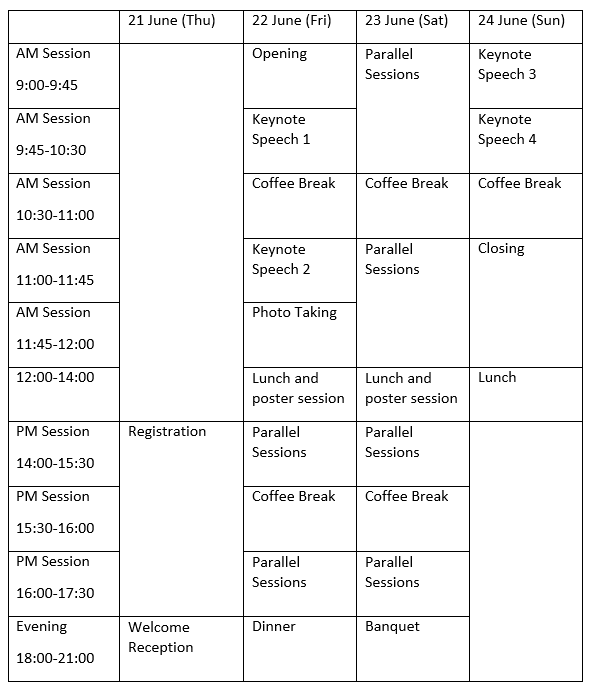
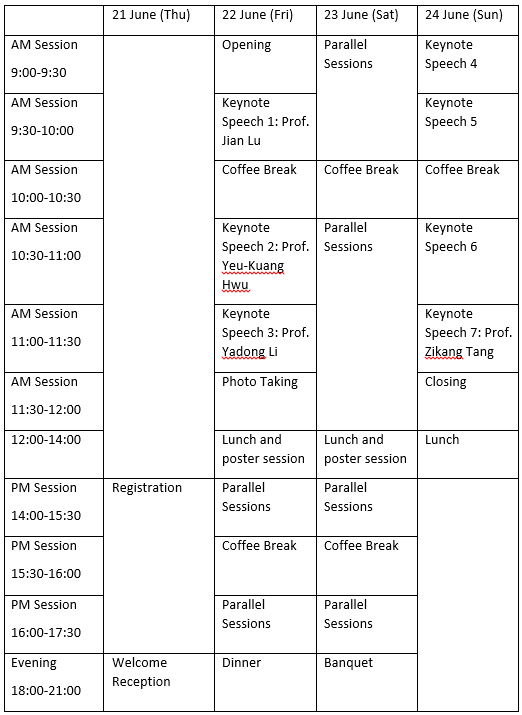
Initial commit

Changed region(s): [[0.0, 0.0, 1.0, 1.0]]

diff --git a/index.html b/index.html
@@ -101,7 +101,10 @@
       <p>1. Prof. Dr. Jian Lu from City University of Hong Kong
 			<p>2. Prof. Dr. Yeu-Kuang Hwu from Institute of Physics, Academia Sinica
 			<p>3. Prof. Dr. Yadong Li from Tsinghua University
-		  <p>4. Prof. Dr. Zikang Tang from University of Macau </p>
+			<p>4. Prof. Dr. Lei Jiang from Technical Institute of Physics and Chemistry, Chinese Academy of Sciences
+			<p>5. Prof. Dr. Shilun Qiu from Jilin University
+			<p>6. Prof. Dr. Chen-Ho Tung from Technical Institute of Physics and Chemistry, Chinese Academy of Sciences
+		  <p>7. Prof. Dr. Zikang Tang from University of Macau </p>
 		</section>
 	</div>
 
